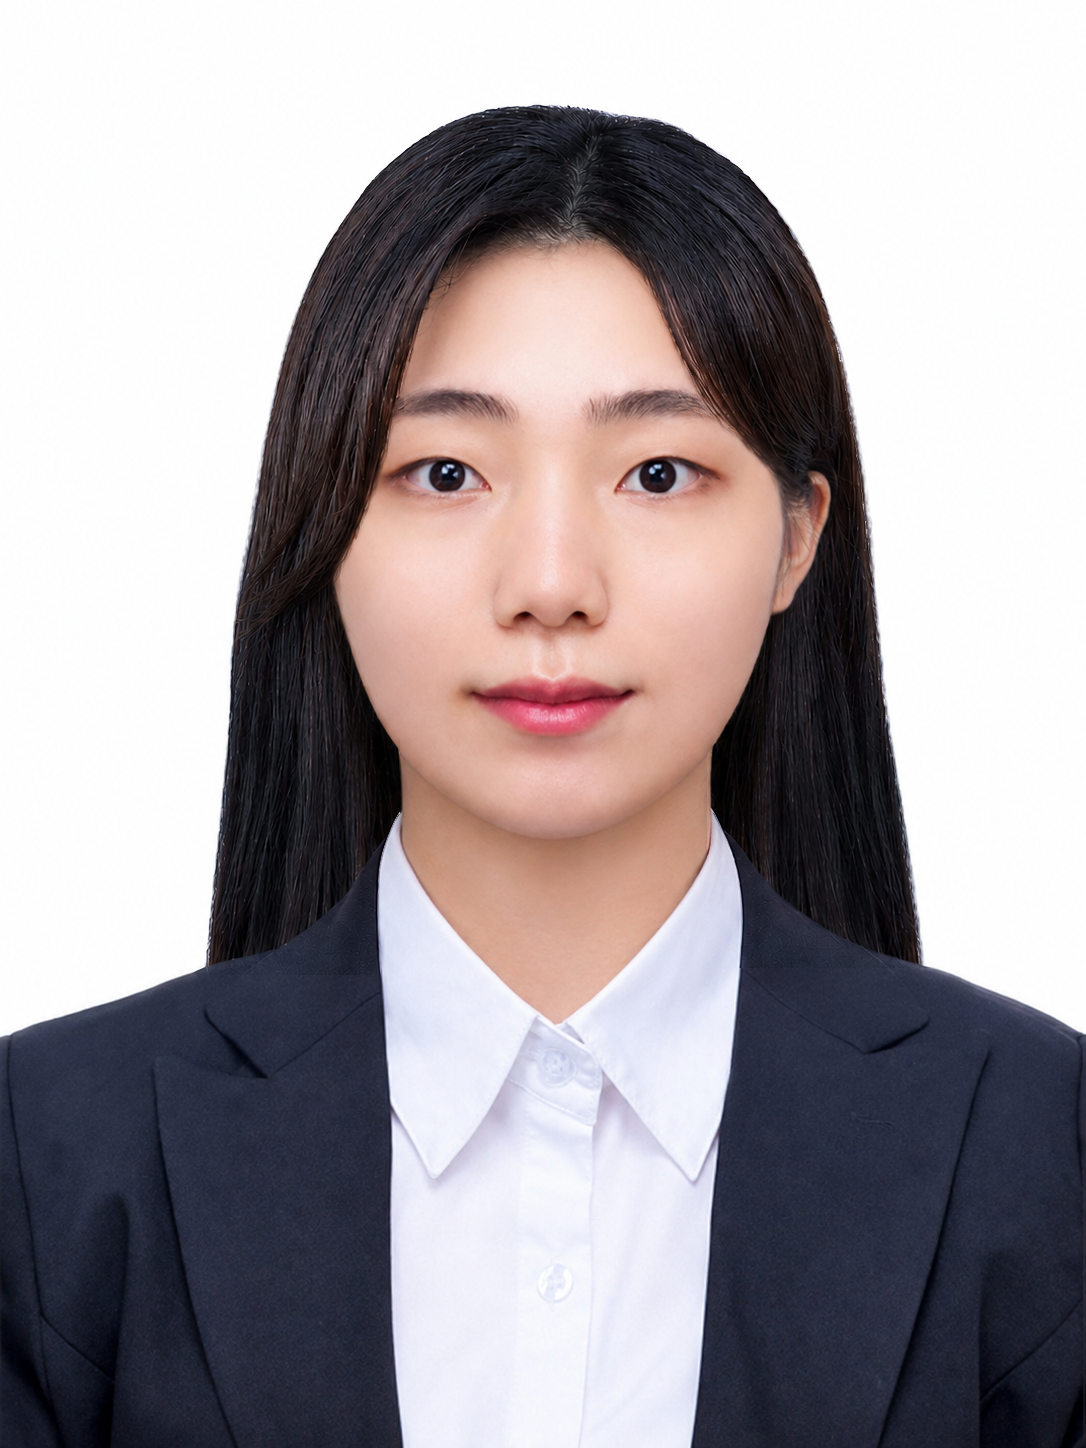
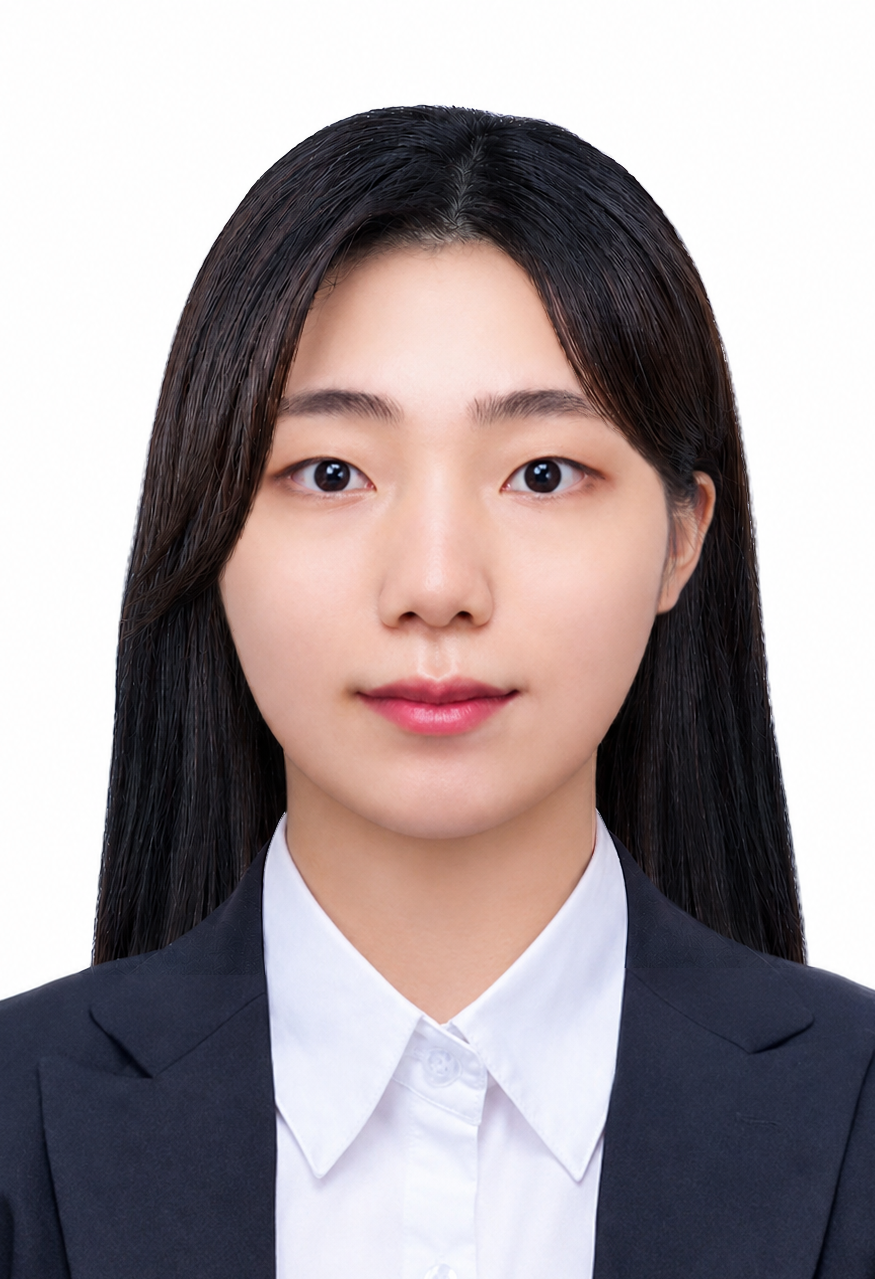
261012_2nd_commit

diff --git a/css/style.css b/css/style.css
@@ -429,7 +429,7 @@ header {
 /* Profile-box */
 .profile-img {
   width: 100%;
-  aspect-ratio: 3 / 7;
+  aspect-ratio: 7 / 10;
   border-radius: 1.4rem;
   overflow: hidden;
   background-color: #fff;
